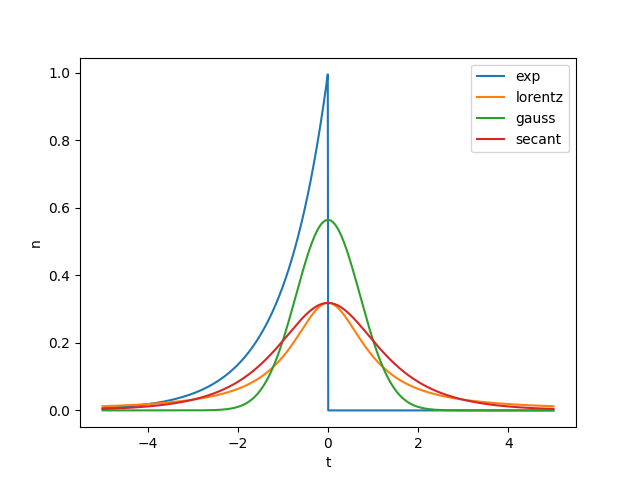
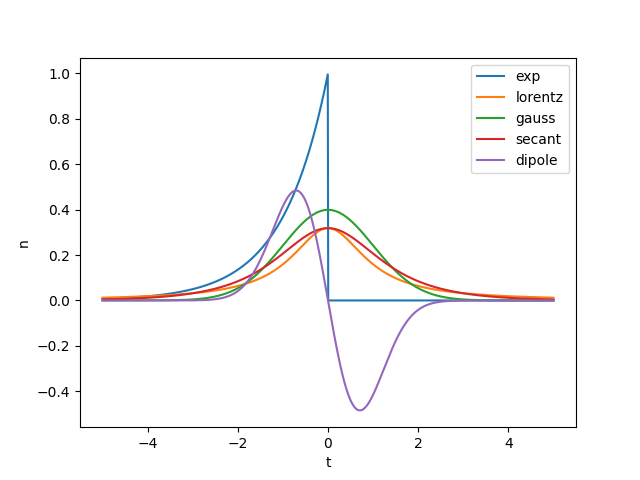
add dipole to png file

diff --git a/docs/plot_pulses.py b/docs/plot_pulses.py
@@ -5,13 +5,15 @@ t = np.linspace(-5, 5, 1000)
 
 exp = np.exp(t) * np.heaviside(-1.0 * t, 1)
 lorentz = 1 / (np.pi * (1 + t**2))
-gauss = 1 / np.sqrt(np.pi) * np.exp(-(t**2))
+gauss = 1 / np.sqrt(2*np.pi) * np.exp(-(t**2)/2)
 secant = 2 / np.pi / (np.exp(t) + np.exp(-t))
+dipole = -2 * t / np.sqrt(np.pi) * np.exp(-(t**2))
 
 plt.plot(t, exp, label="exp")
 plt.plot(t, lorentz, label="lorentz")
 plt.plot(t, gauss, label="gauss")
 plt.plot(t, secant, label="secant")
+plt.plot(t, dipole, label="dipole")
 plt.legend()
 plt.xlabel("t")
 plt.ylabel("n")
